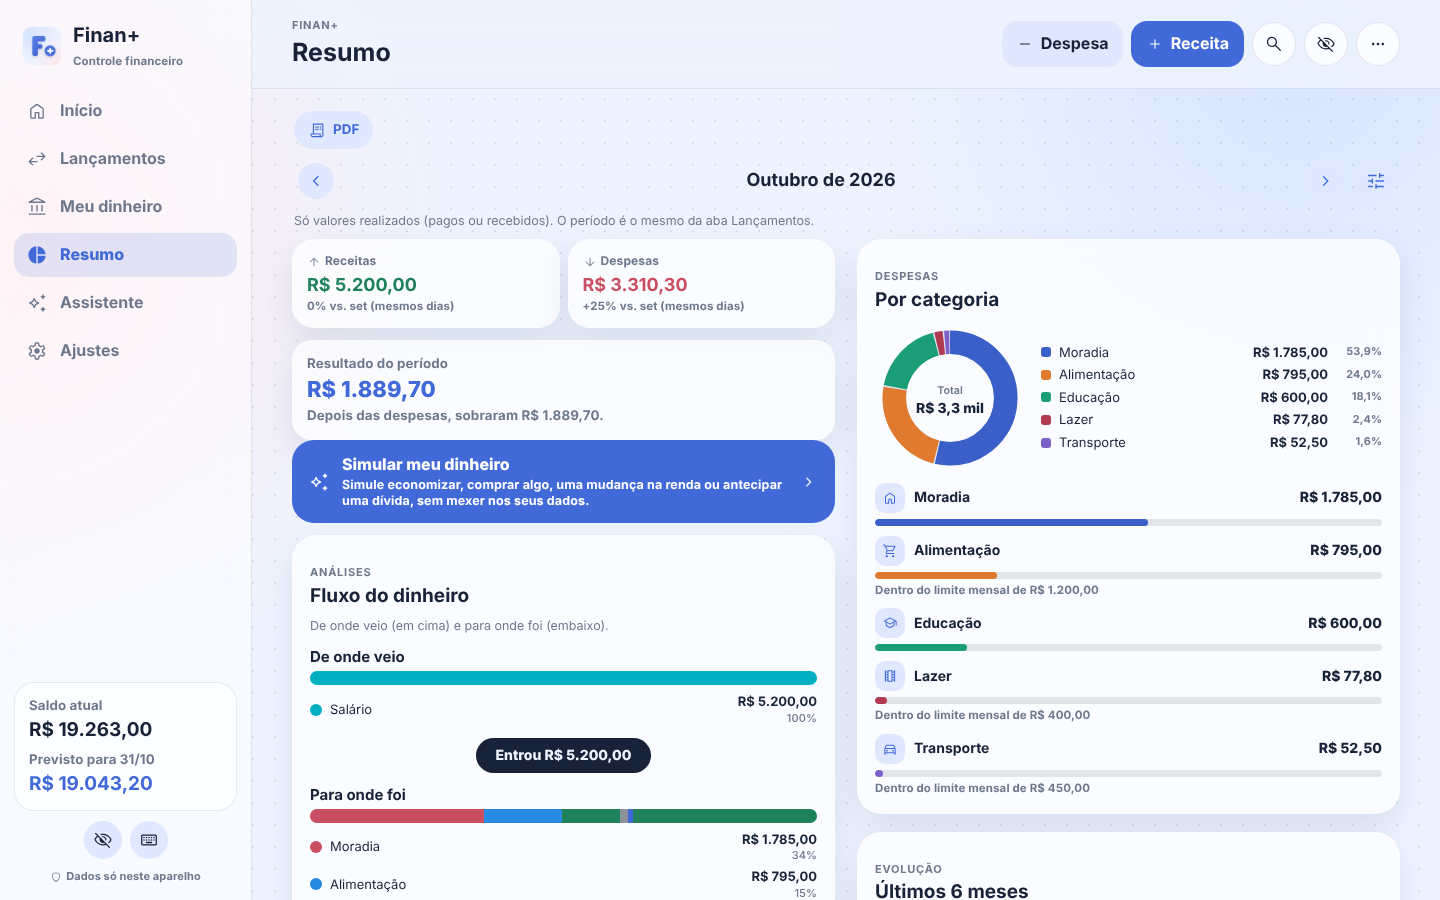
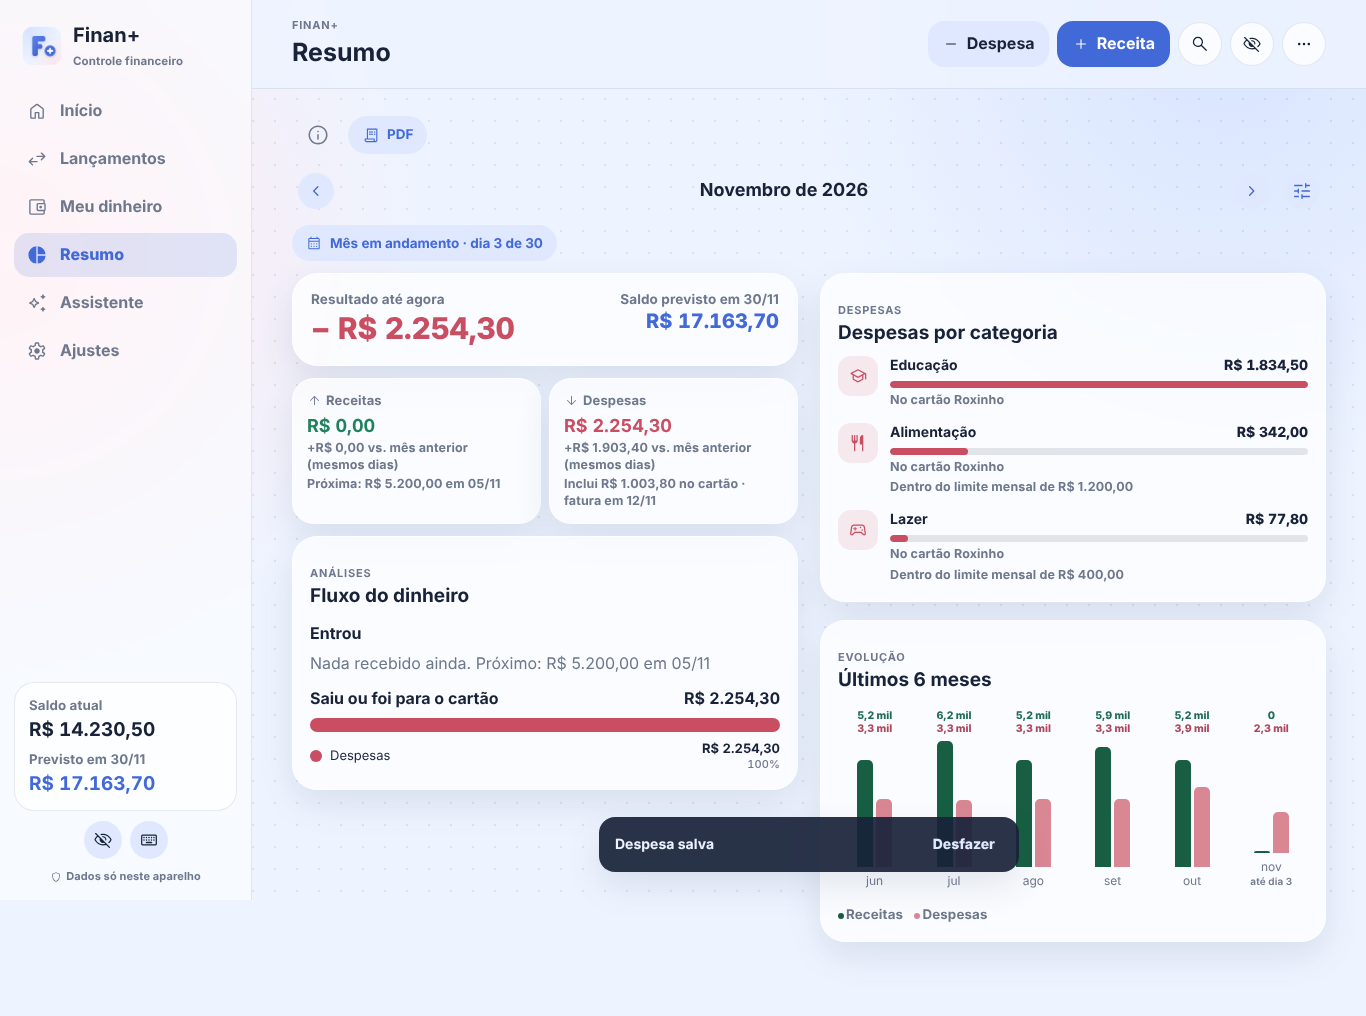
Finan+ web 1.5.0: mesmo visual e regras do Android 1.11.0
Versão 1.5.0, CHANGELOG, novidades no README em português e README.en.md,
capturas novas na documentação e bundle recompilado.

Claude-Session: https://claude.ai/code/session_01XGMm7N9xm7f96A9QPxPwCY

diff --git a/js/editors.js b/js/editors.js
@@ -517,8 +517,8 @@ export function shortcutsDialog() {
 }
 export function whatsNew() {
   const items = [
-    'Paridade com o redesign do app Android 1.10 e 1.11: um número, um nome, uma regra (Início, Lançamentos, calendário, Resumo e a barra lateral usam o mesmo cálculo de A receber, A pagar, Reservado para metas e Previsto, com a conta no botão "info"). Início com um aviso só do Assistente e próximos vencimentos agrupados; Resumo com selo do mês, fluxo "Entrou" e "Saiu ou foi para o cartão", até 5 categorias e evolução com o valor de cada mês; nova tela de lançamento (valor em destaque, categorias e data em chips, "Mais opções" recolhido e Desfazer ao salvar); Meu dinheiro com resumo, alerta de meta e páginas próprias (Contas e cartões, Dívidas, Limites, Metas e Categorias, com arrastar para ordenar e arquivar com Desfazer); Ajustes em listas que abrem páginas; seletores em folha, interruptores, stepper e sinal de menos nas reservas para meta, em âmbar.',
-    'Paridade com o app Android 1.7 a 1.9: reserva para meta (guardar tira o dinheiro da conta, sem contar como despesa; "Guardado em metas" no Resumo), despesas compartilhadas (divisão igual ou por valor, pagamentos parciais, comprovante em PDF e imagem para compartilhar), "Acumular saldo entre os meses", efeito vidro opcional, apresentação de boas-vindas e backup automático criptografado numa pasta (Chrome e Edge no computador). Restaurar também abre as cópias criptografadas do backup automático do Android.',
+    '1.5.0 — paridade com o redesign do app Android 1.10 e 1.11: um número, um nome, uma regra (Início, Lançamentos, calendário, Resumo e a barra lateral usam o mesmo cálculo de A receber, A pagar, Reservado para metas e Previsto, com a conta no botão "info"). Início com um aviso só do Assistente e próximos vencimentos agrupados; Resumo com selo do mês, fluxo "Entrou" e "Saiu ou foi para o cartão", até 5 categorias e evolução com o valor de cada mês; nova tela de lançamento (valor em destaque, categorias e data em chips, "Mais opções" recolhido e Desfazer ao salvar); Meu dinheiro com resumo, alerta de meta e páginas próprias (Contas e cartões, Dívidas, Limites, Metas e Categorias, com arrastar para ordenar e arquivar com Desfazer); Ajustes em listas que abrem páginas; seletores em folha, interruptores, stepper e sinal de menos nas reservas para meta, em âmbar.',
+    '1.5.0 — paridade com o app Android 1.7 a 1.9: reserva para meta (guardar tira o dinheiro da conta, sem contar como despesa; "Guardado em metas" no Resumo), despesas compartilhadas (divisão igual ou por valor, pagamentos parciais, comprovante em PDF e imagem para compartilhar), "Acumular saldo entre os meses", efeito vidro opcional, apresentação de boas-vindas e backup automático criptografado numa pasta (Chrome e Edge no computador). Restaurar também abre as cópias criptografadas do backup automático do Android.',
     '1.4.0: o mesmo visual e as mesmas regras da versão 1.6.0 do app Android. Nova aba Meu dinheiro (contas, cartões, limites, metas e categorias); Relatórios virou Resumo, com o fluxo do dinheiro; no celular, o botão + abre Despesa, Receita ou Nova recorrência. Formulário mais simples, com descrição opcional e "Mais opções". Lançamento de outro dia começa pendente; ao confirmar, a data real e a prevista ficam guardadas, com Desfazer. Backup com valores exatos (sem perder centavos) e limites de tamanho.',
     '1.3.1: receitas e despesas fixas (recorrências) aparecem nos próximos meses como "Previsto" no calendário, na Lista e no saldo previsto. Clique num previsto para abrir a recorrência. Nada é gravado antes da hora: o lançamento real é criado quando o mês chega.',
     '1.3.0: simulador "E se…?" em Relatórios: economizar por mês, quanto tempo para comprar algo, mudança na renda e antecipar uma dívida, sem mudar seus dados (dá para transformar em meta). Relatórios com o mesmo ‹ mês › de Lançamentos e comparação justa (mês atual contra os mesmos dias do mês anterior).',

diff --git a/js/ctx.js b/js/ctx.js
@@ -5,7 +5,7 @@
 import { Money, todayStr, CARD_PAYMENT_CAT } from './core.js';
 import { Text } from './assist.js';
 
-export const APP_VERSION = '1.4.0';
+export const APP_VERSION = '1.5.0';
 
 export const ctx = {
   state: null,        // dados (AppState do core)

diff --git a/README.en.md b/README.en.md
@@ -1,0 +1,40 @@
+# Finan+ web (PWA)
+
+**Português:** [README.md](README.md)
+
+Simple, private and offline personal finance in the browser, on your phone or computer. It does everything the Android app does — income, expenses, accounts, credit cards and bills, installments, recurring entries, limits, goals, reports, PDF report, an on-device assistant, PIN lock and a compatible backup — with its own **layout for computers and laptops**.
+
+![Home on a computer](docs/inicio-computador.png)
+
+The app itself is in Brazilian Portuguese and uses the Brazilian real (R$). The detailed feature documents are in Portuguese.
+
+**Use it now:** https://finanplus-web.github.io/finan_plus/ · **Linux version:** [download the .deb](https://github.com/finanplus-web/finan_plus_linux/releases/latest) · **Android:** [F-Droid](https://f-droid.org/packages/com.finanplus/)
+
+## What's new in 1.5.0
+
+Finan+ web now has the same look and rules as the Android app 1.11.0:
+
+- **One number, one name, one rule:** the same To receive, To pay, Reserved for goals and Forecast numbers on every screen (money already saved in a goal is not subtracted again; overdue items show up in "To pay").
+- **Redesigned Home, Summary and Transactions**, with the new transaction screen (category and date chips, a collapsed "More options" and Undo after saving).
+- **My money** with dedicated pages: Accounts and cards (the bill inside each card, limit usage), Debts, Limits, Goals and Categories (drag to reorder, archive with Undo).
+- **Goal reserves, shared expenses** (PDF and image), **balance carried over between months**, **optional glass effect**, a **welcome tour** and an encrypted **automatic backup** to a folder (Chrome and Edge on desktop).
+- Backups now keep the Android app's goal reserves and shared expenses.
+
+Full list: [CHANGELOG.md](CHANGELOG.md) (Portuguese).
+
+## Your data
+
+Everything stays in your browser: the data is encrypted (AES-256-GCM) in the site's IndexedDB, with a non-extractable WebCrypto key. No account, no server, no ads, no trackers. JSON backups are compatible with the Android and Linux versions. Clearing the site's data in the browser deletes everything, so keep backups.
+
+## Development
+
+```bash
+npm ci
+npm test        # business rules (node:test)
+npm run build   # js/app.bundle.js
+npm run preview # build and serve the site locally
+```
+
+## License
+
+GNU GPL v3 or later. Third-party components and their licenses are listed in the `licenca/` and `third_party/` folders.

diff --git a/CHANGELOG.md b/CHANGELOG.md
@@ -1,6 +1,22 @@
 # Changelog — Finan+ web (PWA)
 
-## Em desenvolvimento — Paridade com o Android 1.7 a 1.9 (interface)
+## 1.5.0 — Mesmo visual e regras do Android 1.11.0 (03/11/2026)
+
+Traz para o Finan+ web tudo o que entrou no app Android da 1.7.0 à 1.11.0. Também é a cópia que o celular serve no **acesso pela rede**.
+
+### Resumo para quem usa
+
+- **Um número, um nome, uma regra:** Início, Lançamentos (lista e calendário), Resumo e a barra lateral usam o mesmo cálculo de A receber, A pagar, Reservado para metas e Previsto (sem descontar a meta já guardada de novo; atrasados no "A pagar"; aportes planejados que faltam no mês).
+- **Início** com saldo e previsto num cartão (conta no botão "info"), "Falta receber"/"Falta pagar" com o próximo valor, um aviso só do Assistente e próximos vencimentos agrupados por data.
+- **Resumo** com selo do mês, resultado com o previsto e o guardado em metas, fluxo "Entrou" / "Saiu ou foi para o cartão", até 5 categorias com "Outras" e evolução só dos meses com dados.
+- **Nova tela de lançamento:** valor em destaque, categorias e data em chips, "Mais opções" recolhido com resumo e Desfazer ao salvar; seletor de categoria em folha com busca.
+- **Meu dinheiro** com resumo, alerta de meta fora do prazo e páginas próprias: Contas e cartões (fatura dentro de cada cartão, uso do limite), Dívidas, Limites, Metas e Categorias (arrastar para ordenar, arquivar com Desfazer).
+- **Ajustes** em listas que abrem páginas, com "Cálculo do saldo" no lugar de "Lançamentos".
+- **Reserva para meta**, **despesas compartilhadas** (PDF e imagem), **saldo acumulado entre os meses**, **efeito vidro**, **boas-vindas** e **backup automático** criptografado (Chrome e Edge no computador).
+- Plurais corretos, sinal de menos tipográfico, ícones por conceito e cores próprias para metas (âmbar) e cartão (lilás). Cartão de Crédito e Limite Especial deixam de ser categorias; Empréstimo vira Dívidas.
+- **Backup:** agora preserva `goalId` (reservas para meta) e `shared` (despesas compartilhadas) do Android; antes, exportar pelo Finan+ web e restaurar no celular perdia esses dados.
+
+## Detalhes — Paridade com o Android 1.7 a 1.9 (interface)
 
 As regras já tinham vindo do Android (núcleo em `core.js`, `shared.js`, `report.js`, `pdf.js`, `calendar.js`); agora a interface.
 

diff --git a/README.md b/README.md
@@ -7,10 +7,24 @@ Controle financeiro pessoal **simples, privado e offline**, no navegador do celu
 | Lançamentos | Resumo (relatórios) |
 |---|---|
 | ![Lançamentos](docs/lancamentos-computador.png) | ![Resumo](docs/relatorios-computador.png) |
-| **Ajustes (tema Tokyo Night)** | **Celular** |
-| ![Ajustes](docs/ajustes-tokyo.png) | ![Celular](docs/celular.png) |
+| **Ajustes (tema Gruvbox)** | **Celular** |
+| ![Ajustes](docs/ajustes-computador.png) | ![Celular](docs/celular.png) |
 | **Meu dinheiro** | |
 | ![Meu dinheiro](docs/meu-dinheiro-computador.png) | |
+
+**English:** [README.en.md](README.en.md)
+
+## Novidades da versão 1.5.0
+
+O Finan+ web chega ao mesmo visual e às mesmas regras do app Android 1.11.0:
+
+- **Um número, um nome, uma regra:** o mesmo cálculo de A receber, A pagar, Reservado para metas e Previsto em todas as telas.
+- **Início, Resumo e Lançamentos redesenhados**, com a nova tela de lançamento (chips de categoria e data, "Mais opções" e Desfazer).
+- **Meu dinheiro** com páginas próprias: Contas e cartões, Dívidas, Limites, Metas e Categorias.
+- **Reserva para meta, despesas compartilhadas** (PDF e imagem), **saldo acumulado entre os meses**, **efeito vidro**, **boas-vindas** e **backup automático** criptografado (Chrome e Edge).
+- O backup passa a preservar as reservas para meta e as despesas compartilhadas do app Android.
+
+Detalhes em [CHANGELOG.md](CHANGELOG.md).
 
 - Lista completa do que o app faz: [FUNCIONALIDADES.md](FUNCIONALIDADES.md)
 - Calendário de lançamentos: [CALENDARIO.md](CALENDARIO.md)
